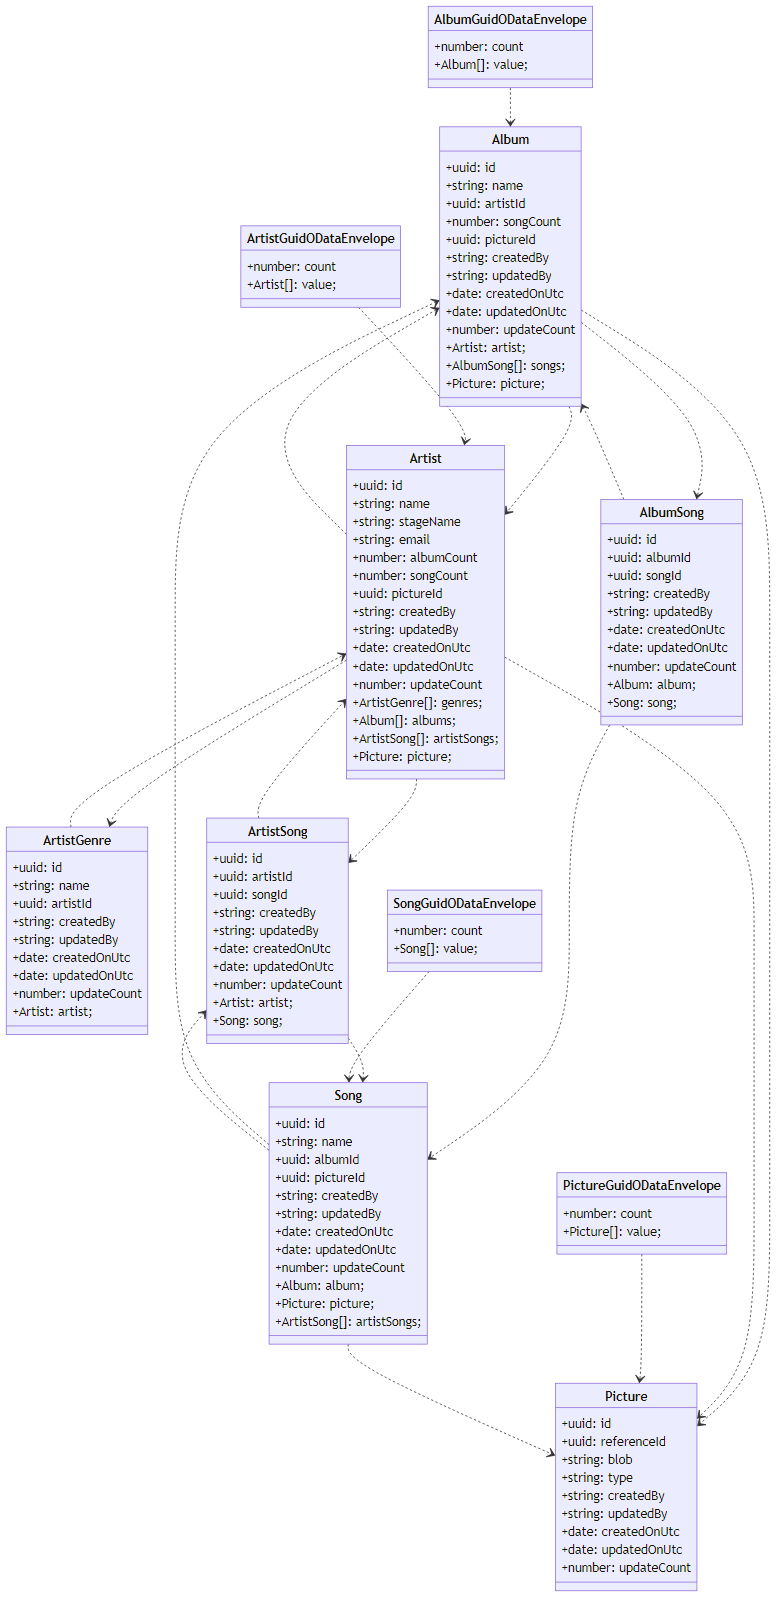
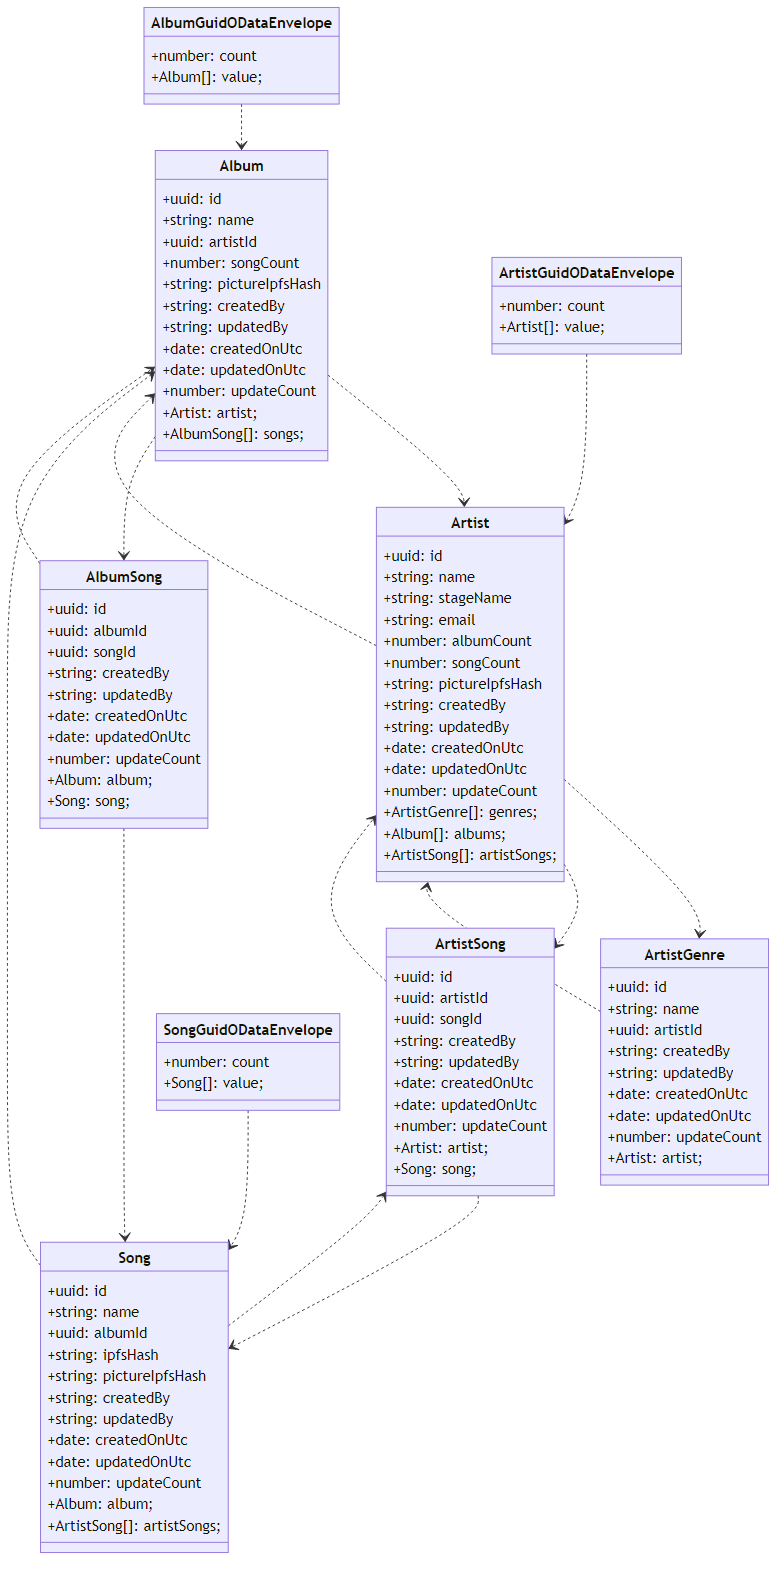
Refactoring Artists picture code

diff --git a/docs/artists-odata/class-diagram.html b/docs/artists-odata/class-diagram.html
@@ -13,21 +13,17 @@ classDiagram
 
   Album ..> Artist
   Album ..> AlbumSong
-  Album ..> Picture
   AlbumGuidODataEnvelope ..> Album
   AlbumSong ..> Album
   AlbumSong ..> Song
   Artist ..> ArtistGenre
   Artist ..> Album
   Artist ..> ArtistSong
-  Artist ..> Picture
   ArtistGenre ..> Artist
   ArtistGuidODataEnvelope ..> Artist
   ArtistSong ..> Artist
   ArtistSong ..> Song
-  PictureGuidODataEnvelope ..> Picture
   Song ..> Album
-  Song ..> Picture
   Song ..> ArtistSong
   SongGuidODataEnvelope ..> Song
 
@@ -36,7 +32,7 @@ classDiagram
     +string: name
     +uuid: artistId
     +number: songCount
-    +uuid: pictureId
+    +string: pictureIpfsHash
     +string: createdBy
     +string: updatedBy
     +date: createdOnUtc
@@ -44,7 +40,6 @@ classDiagram
     +number: updateCount
     +Artist: artist;
     +AlbumSong[]: songs;
-    +Picture: picture;
   }
   class AlbumGuidODataEnvelope{
     +number: count
@@ -69,7 +64,7 @@ classDiagram
     +string: email
     +number: albumCount
     +number: songCount
-    +uuid: pictureId
+    +string: pictureIpfsHash
     +string: createdBy
     +string: updatedBy
     +date: createdOnUtc
@@ -78,7 +73,6 @@ classDiagram
     +ArtistGenre[]: genres;
     +Album[]: albums;
     +ArtistSong[]: artistSongs;
-    +Picture: picture;
   }
   class ArtistGenre{
     +uuid: id
@@ -107,33 +101,18 @@ classDiagram
     +Artist: artist;
     +Song: song;
   }
-  class Picture{
-    +uuid: id
-    +uuid: referenceId
-    +string: blob
-    +string: type
-    +string: createdBy
-    +string: updatedBy
-    +date: createdOnUtc
-    +date: updatedOnUtc
-    +number: updateCount
-  }
-  class PictureGuidODataEnvelope{
-    +number: count
-    +Picture[]: value;
-  }
   class Song{
     +uuid: id
     +string: name
     +uuid: albumId
-    +uuid: pictureId
+    +string: ipfsHash
+    +string: pictureIpfsHash
     +string: createdBy
     +string: updatedBy
     +date: createdOnUtc
     +date: updatedOnUtc
     +number: updateCount
     +Album: album;
-    +Picture: picture;
     +ArtistSong[]: artistSongs;
   }
   class SongGuidODataEnvelope{

diff --git a/docs/artists-webapi/class-diagram.html b/docs/artists-webapi/class-diagram.html
@@ -13,19 +13,16 @@ classDiagram
 
   Album ..> Artist
   Album ..> AlbumSong
-  Album ..> Picture
   AlbumSong ..> Album
   AlbumSong ..> Song
   Artist ..> ArtistGenre
   Artist ..> Album
   Artist ..> ArtistSong
-  Artist ..> Picture
   ArtistGenre ..> Artist
   ArtistSong ..> Artist
   ArtistSong ..> Song
   ArtistUpsertRequest ..> ArtistGenreUpsertRequest
   Song ..> Album
-  Song ..> Picture
   Song ..> ArtistSong
 
   class Album{
@@ -33,7 +30,7 @@ classDiagram
     +string: name
     +uuid: artistId
     +number: songCount
-    +uuid: pictureId
+    +string: pictureIpfsHash
     +string: createdBy
     +string: updatedBy
     +date: createdOnUtc
@@ -41,7 +38,6 @@ classDiagram
     +number: updateCount
     +Artist: artist;
     +AlbumSong[]: songs;
-    +Picture: picture;
   }
   class AlbumSong{
     +uuid: id
@@ -62,7 +58,7 @@ classDiagram
     +string: email
     +number: albumCount
     +number: songCount
-    +uuid: pictureId
+    +string: pictureIpfsHash
     +string: createdBy
     +string: updatedBy
     +date: createdOnUtc
@@ -71,7 +67,6 @@ classDiagram
     +ArtistGenre[]: genres;
     +Album[]: albums;
     +ArtistSong[]: artistSongs;
-    +Picture: picture;
   }
   class ArtistGenre{
     +uuid: id
@@ -105,20 +100,7 @@ classDiagram
     +string: name
     +string: stageName
     +string: email
-    +string: picture
-    +string: pictureType
     +ArtistGenreUpsertRequest[]: genres;
-  }
-  class Picture{
-    +uuid: id
-    +uuid: referenceId
-    +string: blob
-    +string: type
-    +string: createdBy
-    +string: updatedBy
-    +date: createdOnUtc
-    +date: updatedOnUtc
-    +number: updateCount
   }
   class ProblemDetails{
     +string: type
@@ -131,14 +113,14 @@ classDiagram
     +uuid: id
     +string: name
     +uuid: albumId
-    +uuid: pictureId
+    +string: ipfsHash
+    +string: pictureIpfsHash
     +string: createdBy
     +string: updatedBy
     +date: createdOnUtc
     +date: updatedOnUtc
     +number: updateCount
     +Album: album;
-    +Picture: picture;
     +ArtistSong[]: artistSongs;
   }
       </div>

diff --git a/src/nx/apps/itec5905/src/models/artists-webapi/song.form-group-fac.ts b/src/nx/apps/itec5905/src/models/artists-webapi/song.form-group-fac.ts
@@ -11,8 +11,6 @@ import { FormControl, FormArray, FormGroup, Validators } from '@angular/forms'; 
 import { ISongForm } from './song.form';
 import { IAlbumForm } from './album.form';
 import { AlbumFormGroupFac } from './album.form-group-fac';
-import { IPictureForm } from './picture.form';
-import { PictureFormGroupFac } from './picture.form-group-fac';
 import { IArtistSongForm } from './artist-song.form';
 
 export function SongFormGroupFac(): FormGroup<ISongForm> {
@@ -20,10 +18,10 @@ export function SongFormGroupFac(): FormGroup<ISongForm> {
     id: new FormControl<string | null | undefined>(null),
     name: new FormControl<string>('', { validators: Validators.compose([Validators.required, Validators.minLength(1), Validators.maxLength(255)]), nonNullable: true }),
     albumId: new FormControl<string>('', { validators: Validators.required, nonNullable: true } ),
-    pictureId: new FormControl<string | null | undefined>(null),
+    ipfsHash: new FormControl<string | null | undefined>(null),
+    pictureIpfsHash: new FormControl<string | null | undefined>(null),
     updateCount: new FormControl<number | null | undefined>(null),
     album: new FormGroup<IAlbumForm>(AlbumFormGroupFac().controls),
-    picture: new FormGroup<IPictureForm>(PictureFormGroupFac().controls),
     artistSongs: new FormArray<FormGroup<IArtistSongForm>>([]),
   });
 }

diff --git a/src/nx/apps/itec5905/src/models/artists-webapi/artist.form-group-fac.ts b/src/nx/apps/itec5905/src/models/artists-webapi/artist.form-group-fac.ts
@@ -12,8 +12,6 @@ import { IArtistForm } from './artist.form';
 import { IArtistGenreForm } from './artist-genre.form';
 import { IAlbumForm } from './album.form';
 import { IArtistSongForm } from './artist-song.form';
-import { IPictureForm } from './picture.form';
-import { PictureFormGroupFac } from './picture.form-group-fac';
 
 export function ArtistFormGroupFac(): FormGroup<IArtistForm> {
   return new FormGroup<IArtistForm>({
@@ -23,11 +21,10 @@ export function ArtistFormGroupFac(): FormGroup<IArtistForm> {
     email: new FormControl<string>('', { validators: Validators.compose([Validators.required, Validators.email, Validators.minLength(2), Validators.maxLength(255)]), nonNullable: true }),
     albumCount: new FormControl<number | null | undefined>(null),
     songCount: new FormControl<number | null | undefined>(null),
-    pictureId: new FormControl<string | null | undefined>(null),
+    pictureIpfsHash: new FormControl<string | null | undefined>(null),
     updateCount: new FormControl<number | null | undefined>(null),
     genres: new FormArray<FormGroup<IArtistGenreForm>>([]),
     albums: new FormArray<FormGroup<IAlbumForm>>([]),
     artistSongs: new FormArray<FormGroup<IArtistSongForm>>([]),
-    picture: new FormGroup<IPictureForm>(PictureFormGroupFac().controls),
   });
 }

diff --git a/src/nx/apps/itec5905/src/models/artists-webapi/album.form-group-fac.ts b/src/nx/apps/itec5905/src/models/artists-webapi/album.form-group-fac.ts
@@ -12,8 +12,6 @@ import { IAlbumForm } from './album.form';
 import { IArtistForm } from './artist.form';
 import { ArtistFormGroupFac } from './artist.form-group-fac';
 import { IAlbumSongForm } from './album-song.form';
-import { IPictureForm } from './picture.form';
-import { PictureFormGroupFac } from './picture.form-group-fac';
 
 export function AlbumFormGroupFac(): FormGroup<IAlbumForm> {
   return new FormGroup<IAlbumForm>({
@@ -21,10 +19,9 @@ export function AlbumFormGroupFac(): FormGroup<IAlbumForm> {
     name: new FormControl<string>('', { validators: Validators.compose([Validators.required, Validators.minLength(1), Validators.maxLength(255)]), nonNullable: true }),
     artistId: new FormControl<string>('', { validators: Validators.required, nonNullable: true } ),
     songCount: new FormControl<number | null | undefined>(null),
-    pictureId: new FormControl<string | null | undefined>(null),
+    pictureIpfsHash: new FormControl<string | null | undefined>(null),
     updateCount: new FormControl<number | null | undefined>(null),
     artist: new FormGroup<IArtistForm>(ArtistFormGroupFac().controls),
     songs: new FormArray<FormGroup<IAlbumSongForm>>([]),
-    picture: new FormGroup<IPictureForm>(PictureFormGroupFac().controls),
   });
 }

diff --git a/src/nx/apps/itec5905/src/app/modules/artists-module/artists-list/list.component.ts b/src/nx/apps/itec5905/src/app/modules/artists-module/artists-list/list.component.ts
@@ -6,7 +6,7 @@ import { ODataState } from 'imng-kendo-odata';
 
 import { ArtistListFacade } from './list.facade';
 import { ArtistCrudFacade } from '../artists-crud';
-import { ArtistProperties, IArtist, PictureProperties } from '../../../../models/artists-webapi';
+import { ArtistProperties, IArtist } from '../../../../models/artists-webapi';
 
 const initialGridState: ODataState = {
   take: 20,
@@ -18,21 +18,11 @@ const initialGridState: ODataState = {
     ArtistProperties.EMAIL,
     ArtistProperties.ALBUM_COUNT,
     ArtistProperties.SONG_COUNT,
-    ArtistProperties.PICTURE_ID,
+    ArtistProperties.PICTURE_IPFS_HASH,
   ],
   sort: [
     { field: ArtistProperties.NAME, dir: 'asc' },
   ],
-  expanders: [
-    {
-      table: ArtistProperties.PICTURE,
-      selectors: [
-        PictureProperties.ID,
-        PictureProperties.BLOB,
-        PictureProperties.TYPE,
-      ]
-    },
-  ]
 };
 
 @Component({
@@ -43,7 +33,6 @@ const initialGridState: ODataState = {
 })
 export class ArtistListComponent extends KendoODataBasedComponent<IArtist, ArtistListFacade> {
   public readonly props = ArtistProperties;
-  public readonly pictureProps = PictureProperties;
   public currentItem: IArtist | undefined;
 
   constructor(facade: ArtistListFacade,

diff --git a/src/nx/apps/itec5905/src/app/modules/artists-module/+state/artist.effects.ts b/src/nx/apps/itec5905/src/app/modules/artists-module/+state/artist.effects.ts
@@ -8,7 +8,7 @@ import { map, switchMap } from 'rxjs/operators';
 import { artistsFeature } from './artist.reducer';
 import * as artistActionTypes from './artist.actions';
 import { environment } from '../../../../environments/environment';
-import { IArtist, IPicture } from '../../../../models/artists-webapi';
+import { IArtist, } from '../../../../models/artists-webapi';
 
 import { ArtistApiService } from '../artists-crud';
 
@@ -68,12 +68,4 @@ export class ArtistEffects {
         handleEffectError(action))));
   });
 
-  loadPicturesEffect$ = createEffect(() => {
-    return this.actions$.pipe(
-      ofType(artistActionTypes.loadPicturesRequest),
-      switchMap((action: ReturnType<typeof artistActionTypes.loadPicturesRequest>) => this.odataService
-        .fetch<IPicture>(environment.endpoints.artistsODataEnpoints.pictures, action.payload)
-        .pipe(map(t => artistActionTypes.loadPicturesSuccess(t)),
-          handleEffectError(action))));
-  });
 }

diff --git a/src/nx/apps/itec5905/src/models/artists-webapi/artist.form.ts b/src/nx/apps/itec5905/src/models/artists-webapi/artist.form.ts
@@ -10,7 +10,6 @@ import { FormControl, FormArray, FormGroup } from '@angular/forms'; //NOSONAR
 import { IArtistGenreForm } from './artist-genre.form';
 import { IAlbumForm } from './album.form';
 import { IArtistSongForm } from './artist-song.form';
-import { IPictureForm } from './picture.form';
 
 export interface IArtistForm {
     id: FormControl<string | null | undefined>;
@@ -19,10 +18,9 @@ export interface IArtistForm {
     email: FormControl<string>;
     albumCount: FormControl<number | null | undefined>;
     songCount: FormControl<number | null | undefined>;
-    pictureId: FormControl<string | null | undefined>;
+    pictureIpfsHash: FormControl<string | null | undefined>;
     updateCount: FormControl<number | null | undefined>;
     genres: FormArray<FormGroup<IArtistGenreForm>>;
     albums: FormArray<FormGroup<IAlbumForm>>;
     artistSongs: FormArray<FormGroup<IArtistSongForm>>;
-    picture: FormGroup<IPictureForm>;
 }

diff --git a/src/nx/apps/itec5905/src/models/artists-webapi/artist-upsert-request.form-group-fac.ts b/src/nx/apps/itec5905/src/models/artists-webapi/artist-upsert-request.form-group-fac.ts
@@ -17,8 +17,6 @@ export function ArtistUpsertRequestFormGroupFac(): FormGroup<IArtistUpsertReques
     name: new FormControl<string>('', { validators: Validators.compose([Validators.required, Validators.minLength(2), Validators.maxLength(255)]), nonNullable: true }),
     stageName: new FormControl<string>('', { validators: Validators.compose([Validators.required, Validators.minLength(2), Validators.maxLength(255)]), nonNullable: true }),
     email: new FormControl<string>('', { validators: Validators.compose([Validators.required, Validators.email, Validators.minLength(2), Validators.maxLength(255)]), nonNullable: true }),
-    picture: new FormControl<string | null | undefined>(null, { validators: Validators.maxLength(1000000) } ),
-    pictureType: new FormControl<string | null | undefined>(null, { validators: Validators.maxLength(5) } ),
     genres: new FormArray<FormGroup<IArtistGenreUpsertRequestForm>>([]),
   });
 }

diff --git a/src/nx/apps/itec5905/src/app/modules/artists-module/+state/artist.actions.ts b/src/nx/apps/itec5905/src/app/modules/artists-module/+state/artist.actions.ts
@@ -1,7 +1,7 @@
 import { createAction } from '@ngrx/store';
 import { ODataResult, ODataState } from 'imng-kendo-odata';
 import { createPayloadAction } from 'imng-ngrx-utils';
-import { IArtist, IArtistUpsertRequest, IPicture } from '../../../../models/artists-webapi';
+import { IArtist, IArtistUpsertRequest } from '../../../../models/artists-webapi';
 
 export const loadArtistsRequest = createPayloadAction<ODataState>(
     '[Artists] Load Artists Request');
@@ -20,5 +20,3 @@ export const deleteArtistRequest = createPayloadAction<IArtist>('[Artists] Delet
 
 export const loadPicturesRequest = createPayloadAction<ODataState>(
     '[Artists] Load Pictures Request');
-export const loadPicturesSuccess = createPayloadAction<ODataResult<IPicture>>(
-    '[Artists] Load Pictures Success');

diff --git a/src/nx/apps/itec5905/src/app/modules/artists-module/artists-list/list.component.html b/src/nx/apps/itec5905/src/app/modules/artists-module/artists-list/list.component.html
@@ -125,22 +125,6 @@
       <span class="h6" title="Song Count">Song Count</span>
     </ng-template>
   </kendo-grid-column>
-  <kendo-grid-column
-    [field]="getRelatedField(props.PICTURE, pictureProps.BLOB)"
-    [width]="100"
-    title="Picture"
-  >
-    <ng-template class="header" kendoGridHeaderTemplate let-column>
-      <span class="h6" title="Picture">Picture</span>
-    </ng-template>
-    <ng-template kendoGridCellTemplate let-dataItem>
-      <img
-        *ngIf="dataItem.picture?.blob"
-        [alt]="dataItem.stageName + ' picture'"
-        [src]="dataItem.picture.blob"
-      />
-    </ng-template>
-  </kendo-grid-column>
   <kendo-grid-pdf [fileName]="getExportFileName('Artists')" [allPages]="false">
     <kendo-grid-pdf-margin
       top="1cm"

diff --git a/src/nx/apps/itec5905/src/models/artists-webapi/song.form.ts b/src/nx/apps/itec5905/src/models/artists-webapi/song.form.ts
@@ -8,16 +8,15 @@
  */
 import { FormControl, FormArray, FormGroup } from '@angular/forms'; //NOSONAR
 import { IAlbumForm } from './album.form';
-import { IPictureForm } from './picture.form';
 import { IArtistSongForm } from './artist-song.form';
 
 export interface ISongForm {
     id: FormControl<string | null | undefined>;
     name: FormControl<string>;
     albumId: FormControl<string>;
-    pictureId: FormControl<string | null | undefined>;
+    ipfsHash: FormControl<string | null | undefined>;
+    pictureIpfsHash: FormControl<string | null | undefined>;
     updateCount: FormControl<number | null | undefined>;
     album: FormGroup<IAlbumForm>;
-    picture: FormGroup<IPictureForm>;
     artistSongs: FormArray<FormGroup<IArtistSongForm>>;
 }
